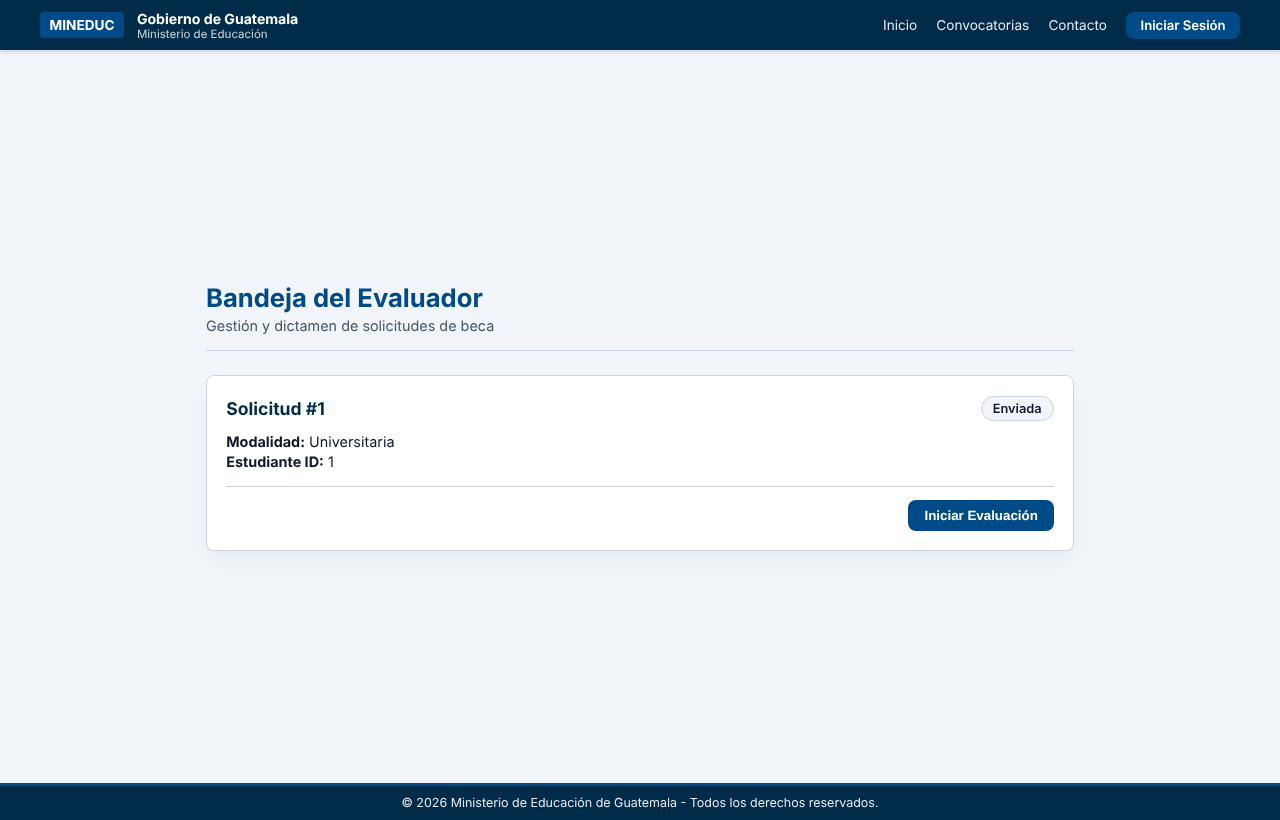
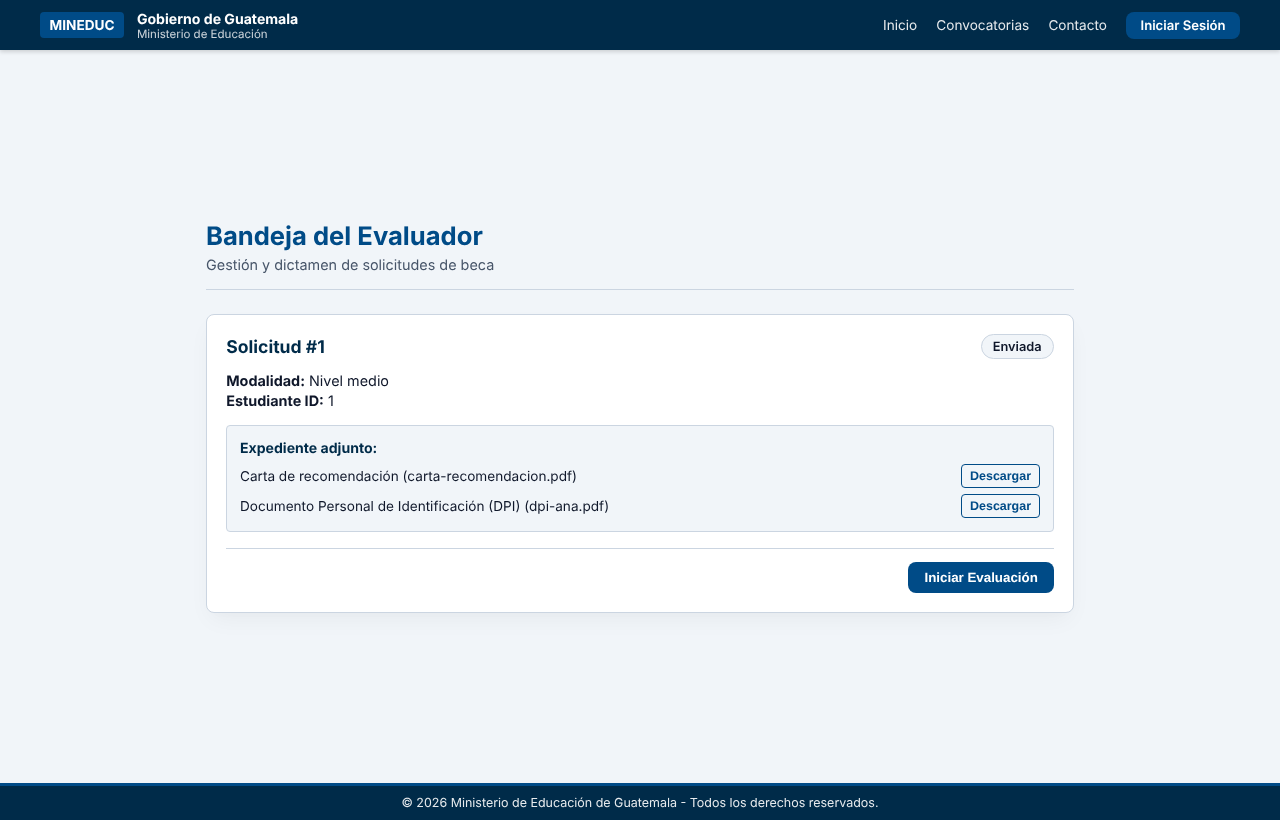
docs: manual de usuario, seccion del administrador y revisar el expediente

diff --git a/docs/manual-usuario.md b/docs/manual-usuario.md
@@ -5,9 +5,9 @@
 
 | | |
 |---|---|
-| **Dirigido a** | Estudiantes que solicitan una beca (secciones 1 a 11) y evaluadores del Ministerio (sección 12) |
-| **Versión del documento** | 1.1 |
-| **Fecha** | 29/10/2026 |
+| **Dirigido a** | Estudiantes que solicitan una beca (secciones 1 a 11), evaluadores (sección 12) y administradores del Ministerio (sección 13) |
+| **Versión del documento** | 1.2 |
+| **Fecha** | 30/10/2026 |
 
 Este manual explica cómo usar la plataforma desde el navegador. Para instalarla
 o configurarla, consulte el **Manual Técnico** (`docs/manual-tecnico.md`).
@@ -31,7 +31,8 @@ contra su base de datos, no maquetas.
 10. [Recuperar la contraseña](#10-recuperar-la-contraseña)
 11. [Mensajes frecuentes y qué hacer](#11-mensajes-frecuentes-y-qué-hacer)
 12. [Para evaluadores: revisar y dictaminar](#12-para-evaluadores-revisar-y-dictaminar)
-13. [Alcance de esta versión](#13-alcance-de-esta-versión)
+13. [Para administradores: asignar evaluadores](#13-para-administradores-asignar-evaluadores)
+14. [Alcance de esta versión](#14-alcance-de-esta-versión)
 
 ---
 
@@ -311,7 +312,8 @@ Si todavía no le asignaron ninguna, la bandeja lo indica:
 ![Bandeja sin solicitudes asignadas](manual-usuario/img/15-bandeja-vacia.png)
 
 Cada solicitud aparece como una tarjeta con su número, su estado, la modalidad
-de beca y el número de identificación del estudiante. Los botones de cada
+de beca, el número de identificación del estudiante y los documentos de su
+expediente. Los botones de cada
 tarjeta dependen del estado de la solicitud: la plataforma solo muestra las
 acciones que se pueden hacer en ese momento.
 
@@ -321,16 +323,21 @@ acciones que se pueden hacer en ese momento.
 | **En Evaluación** | **Aprobar** y **Rechazar** |
 | **Aprobada** o **Rechazada** | Ninguno: *Sin acciones pendientes* |
 
-<!-- PENDIENTE (Marco): cuando la bandeja muestre los documentos del expediente
-     (tarea 4 de Brayan), agregar aquí "12.3 Revisar el expediente", con captura
-     de la lista de documentos y de la descarga, y renumerar 12.3 y 12.4. -->
+### 12.3 Revisar el expediente
 
-### 12.3 Iniciar la evaluación
+En cada tarjeta, el recuadro **Expediente adjunto** lista los documentos que
+subió el estudiante, con su tipo y el nombre del archivo. Presione
+**Descargar** junto a cualquiera para bajarlo a su computadora y revisarlo.
 
-Una solicitud recién asignada está en **Enviada**. Presione **Iniciar
-Evaluación** para tomarla.
+![Solicitud asignada, con los documentos del expediente](manual-usuario/img/16-bandeja-enviada.png)
 
-![Solicitud asignada, en estado Enviada](manual-usuario/img/16-bandeja-enviada.png)
+Solo puede descargar los documentos de las solicitudes que le asignaron. El
+expediente es de solo lectura: no puede cambiar ni agregar documentos.
+
+### 12.4 Iniciar la evaluación
+
+Una solicitud recién asignada está en **Enviada**. Cuando vaya a revisarla,
+presione **Iniciar Evaluación** para tomarla.
 
 La solicitud pasa a **En Evaluación**, aparece la confirmación *Solicitud #…
 pasada a "En Evaluación"* y la tarjeta cambia a los botones del dictamen. El
@@ -338,7 +345,7 @@ estudiante ve el nuevo estado en **Mis solicitudes**.
 
 ![Solicitud en evaluación, con los botones del dictamen](manual-usuario/img/17-en-evaluacion.png)
 
-### 12.4 Dictaminar: aprobar o rechazar
+### 12.5 Dictaminar: aprobar o rechazar
 
 Cuando termine de revisar la solicitud, presione **Aprobar** o **Rechazar**.
 
@@ -355,16 +362,17 @@ El estudiante ve la resolución en **Mis solicitudes**:
 
 ![La resolución vista por el estudiante](manual-usuario/img/19-estudiante-aprobada.png)
 
-### 12.5 Qué puede y qué no puede hacer un evaluador
+### 12.6 Qué puede y qué no puede hacer un evaluador
 
 - Solo ve las solicitudes que **le asignaron**. Si intenta abrir otra, la
   plataforma responde *No tiene acceso a esta solicitud.*
 - Solo puede iniciar la evaluación de una solicitud **Enviada** y solo puede
   dictaminar una que esté **En Evaluación**. La plataforma rechaza cualquier
   otro orden.
-- No puede modificar el expediente del estudiante ni subir documentos.
+- Puede descargar los documentos de las solicitudes que le asignaron, pero no
+  modificar el expediente ni subir documentos.
 
-### 12.6 Mensajes para evaluadores
+### 12.7 Mensajes para evaluadores
 
 | Mensaje | Qué pasó | Qué hacer |
 |---|---|---|
@@ -373,28 +381,90 @@ El estudiante ve la resolución en **Mis solicitudes**:
 | *No está asignado como evaluador de esta solicitud.* | La solicitud no es de las suyas | Revise que trabaja con su cuenta, o pida la asignación |
 | *Token inválido o expirado* | Su sesión venció (dura una hora) | Cierre sesión y vuelva a entrar |
 
-<!-- PENDIENTE (Marco): cuando exista la pantalla de asignación (tarea 5 de
-     Brayan), agregar aquí "## 13. Para administradores: asignar evaluadores",
-     con capturas, y pasar "Alcance de esta versión" a la sección 14. -->
+---
+
+## 13. Para administradores: asignar evaluadores
+
+Esta sección es para el personal del Ministerio con rol de **administrador**. El
+administrador reparte las solicitudes enviadas entre los evaluadores: una
+solicitud solo llega a la bandeja de un evaluador cuando el administrador se la
+asigna.
+
+### 13.1 Su cuenta de administrador
+
+Como el de evaluador, el rol de administrador **no se elige al registrarse**: lo
+asigna el administrador técnico del sistema. Al iniciar sesión, la pantalla de
+inicio muestra dos enlaces que solo ve el administrador: **Bandeja del
+evaluador** y **Asignar evaluadores**.
+
+![Inicio de sesión de un administrador](manual-usuario/img/20-inicio-admin.png)
+
+### 13.2 Asignar un evaluador
+
+1. Elija **Asignar evaluadores**. Aparecen las solicitudes que esperan
+   revisión (en estado **Enviada** o **En Evaluación**), de la más antigua a
+   la más reciente.
+
+   ![Solicitudes que esperan un evaluador](manual-usuario/img/21-asignaciones.png)
+
+2. En la solicitud que quiere asignar, elija un evaluador en el selector. La
+   lista muestra el nombre y el correo de cada usuario con rol de evaluador.
+
+   ![Evaluador elegido en el selector](manual-usuario/img/22-asignar-elegido.png)
+
+3. Presione **Asignar**. Aparece la confirmación *Evaluador … asignado
+   correctamente.* y la solicitud ya aparece en la bandeja de ese evaluador.
+
+   ![Asignación confirmada](manual-usuario/img/23-asignado.png)
+
+La solicitud sigue en la lista después de asignarla: puede asignarle más de un
+evaluador. Si presiona **Asignar** sin elegir a nadie, la plataforma le pide
+*Seleccione un evaluador* y no hace nada.
+
+> **La pantalla no muestra quién está ya asignado a cada solicitud.** Si intenta
+> asignar a un evaluador que ya tiene esa solicitud, la plataforma se lo dice
+> (sección 13.4) y no la duplica.
+
+![Intento de asignar un evaluador que ya estaba asignado](manual-usuario/img/24-ya-asignado.png)
+
+### 13.3 Seguir las solicitudes en revisión
+
+El administrador también puede abrir la **Bandeja del evaluador**. Ahí ve todas
+las solicitudes en **Enviada** o **En Evaluación**, con sus documentos, pero
+**sin botones de acción**: evaluar y dictaminar le corresponden solo al
+evaluador asignado.
+
+![Bandeja vista por el administrador, sin acciones](manual-usuario/img/25-admin-bandeja.png)
+
+### 13.4 Mensajes para administradores
+
+| Mensaje | Qué pasó | Qué hacer |
+|---|---|---|
+| *Seleccione un evaluador* | Presionó **Asignar** sin elegir a nadie | Elija un evaluador en el selector |
+| *El usuario … ya está asignado como evaluador de la solicitud ….* | Ese evaluador ya tenía esa solicitud | Nada: la asignación ya existe. Si quiere otro evaluador, elija otro |
+| *No se asignan evaluadores a una solicitud en estado …: solo en Enviada o En Evaluación.* | La solicitud ya fue aprobada o rechazada, o sigue en Borrador | Nada: una solicitud resuelta no se reasigna |
+| *El usuario … no es evaluador.* | El usuario elegido perdió el rol de evaluador | Pida al administrador técnico que revise su rol |
+| *Solo un administrador puede asignar evaluadores.* | Su cuenta no tiene el rol de administrador | Pida al administrador técnico que le asigne el rol |
 
 ---
 
-## 13. Alcance de esta versión
+## 14. Alcance de esta versión
 
 **Lo que cubre este manual.** El recorrido completo del **estudiante**: crear la
 cuenta, ver convocatorias, iniciar una solicitud, armar el expediente, enviarlo
-con validación de identidad y consultar su estado. Y el del **evaluador**: ver
-las solicitudes asignadas, iniciar la evaluación y dictaminar.
+con validación de identidad y consultar su estado. El del **evaluador**: ver
+las solicitudes asignadas, revisar y descargar el expediente, iniciar la
+evaluación y dictaminar. Y el del **administrador**: asignar evaluadores y
+seguir las solicitudes en revisión.
 
 **Lo que todavía no tiene pantallas**, y por eso no se describe aquí:
 
-- **Evaluadores:** la bandeja todavía no muestra los documentos del expediente,
-  ni permite escribir observaciones en el dictamen. La tarjeta identifica al
-  estudiante por su número, no por su nombre.
-- **Administradores:** asignar evaluadores a una solicitud y crear, publicar y
-  cerrar convocatorias. La lógica existe en el sistema y se usa por la API;
-  falta la interfaz. Por eso, en esta versión, la asignación de un evaluador la
-  hace el administrador técnico, no desde el navegador.
+- **Evaluadores:** el dictamen no admite observaciones ni pide confirmación, y
+  la tarjeta identifica al estudiante por su número, no por su nombre.
+- **Administradores:** crear, publicar y cerrar convocatorias, y dar el rol de
+  evaluador o administrador a una cuenta. La lógica de convocatorias existe y
+  se usa por la API; los roles los asigna el administrador técnico. La pantalla
+  de asignación no muestra quién está ya asignado a cada solicitud.
 - **Comités, evaluación con puntajes, cupos y reportes:** fuera del alcance de
   esta entrega.
 - **Recuperación de contraseña:** incompleta (sección 10).
